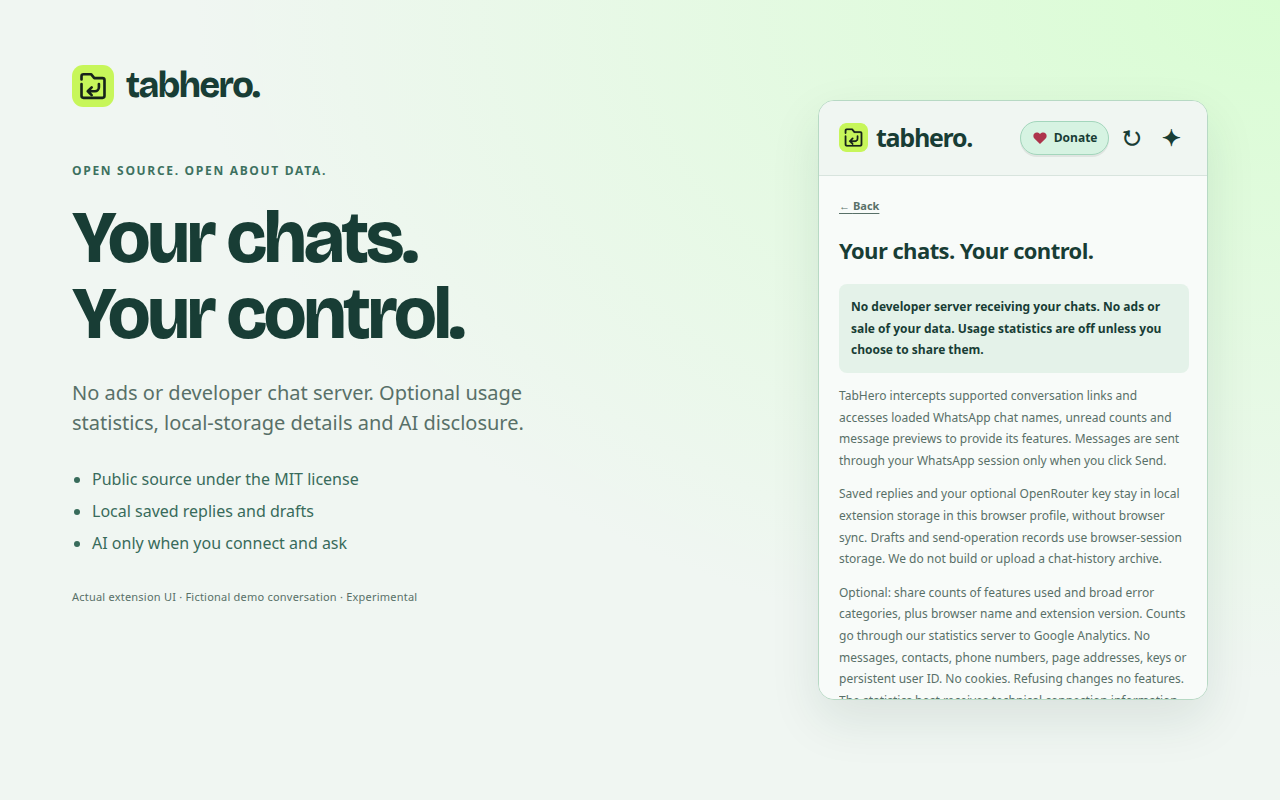
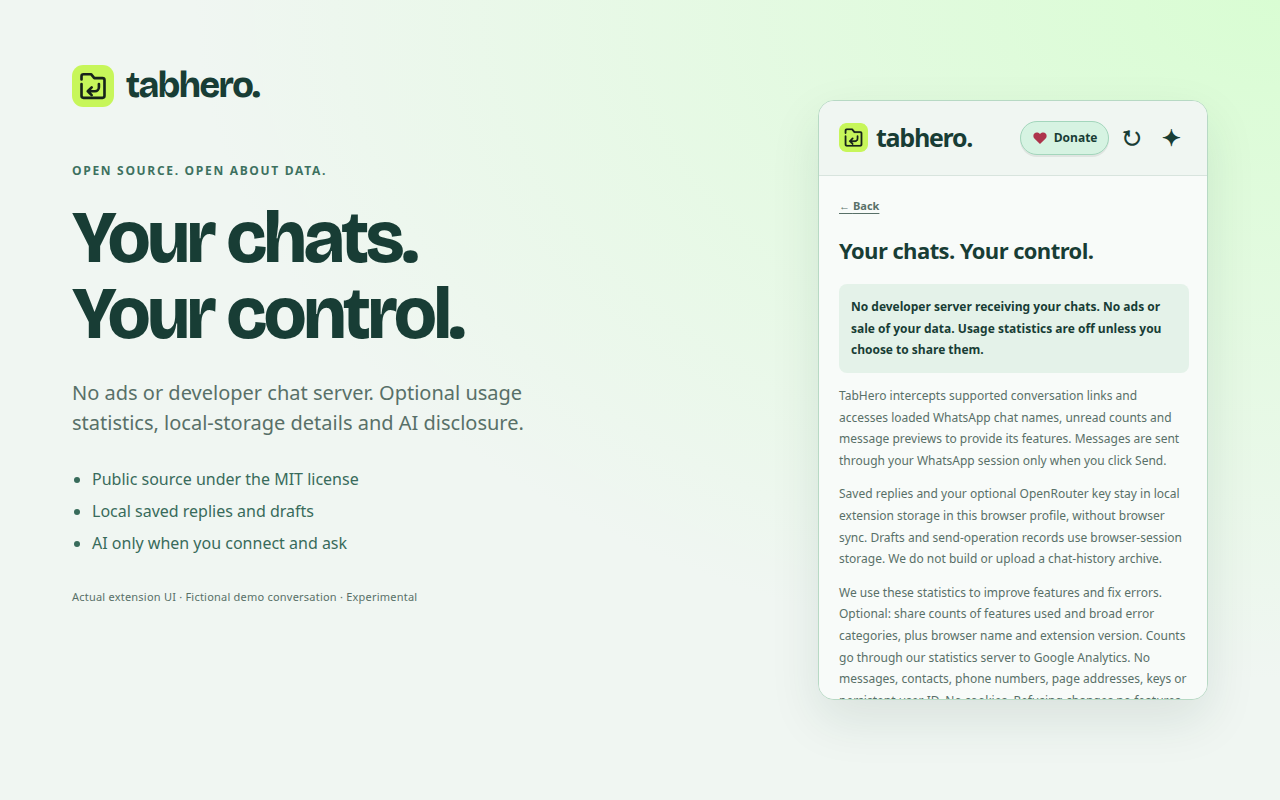
Explain optional improvement statistics without outdated no-analytics claims

Changed region(s): [[0.6562, 0.7188, 0.9375, 0.875]]

diff --git a/website/template.html b/website/template.html
@@ -60,7 +60,7 @@
       <div class="relief-grid">
         <article><span class="feature-number">↵ <small>01</small></span><h3 data-i18n="como_funciona_h3_041"><!--i18n:como_funciona_h3_041-->Já tem aba?<br>É nela mesmo.<!--/i18n:como_funciona_h3_041--></h3><p data-i18n="como_funciona_p_042"><!--i18n:como_funciona_p_042-->O TabHero encontra o WhatsApp Web aberto e troca de conversa dentro do aplicativo, preservando o documento carregado.<!--/i18n:como_funciona_p_042--></p></article>
         <article><span class="feature-number" data-i18n="como_funciona_span_043"><!--i18n:como_funciona_span_043-->Aa <small>02</small><!--/i18n:como_funciona_span_043--></span><h3 data-i18n="como_funciona_h3_044"><!--i18n:como_funciona_h3_044-->O texto vem.<br>O envio é seu.<!--/i18n:como_funciona_h3_044--></h3><p data-i18n="como_funciona_p_045"><!--i18n:como_funciona_p_045-->Número, acento, emoji e aquela mensagem do link: tudo segue para o rascunho. Nenhuma mensagem é enviada automaticamente.<!--/i18n:como_funciona_p_045--></p></article>
-        <article><span class="feature-number">&lt;/&gt; <small>03</small></span><h3 data-i18n="como_funciona_h3_046"><!--i18n:como_funciona_h3_046-->Sem caixa-preta.<br>Sem firula.<!--/i18n:como_funciona_h3_046--></h3><p data-i18n="como_funciona_p_047"><!--i18n:como_funciona_p_047-->Código aberto, licença MIT e execução local. Sem servidor para receber suas conversas e sem telemetria na extensão.<!--/i18n:como_funciona_p_047--></p></article>
+        <article><span class="feature-number">&lt;/&gt; <small>03</small></span><h3 data-i18n="como_funciona_h3_046"><!--i18n:como_funciona_h3_046-->Sem caixa-preta.<br>Sem firula.<!--/i18n:como_funciona_h3_046--></h3><p data-i18n="como_funciona_p_047"><!--i18n:como_funciona_p_047-->Código aberto, licença MIT. Nenhum servidor nosso recebe suas conversas. Contagens opcionais de uso ajudam a melhorar os recursos e corrigir erros, só se você escolher compartilhar.<!--/i18n:como_funciona_p_047--></p></article>
       </div>
     </section>
 
@@ -78,7 +78,7 @@
 
     <section class="support wrap section" id="apoie"><div class="support-art" aria-hidden="true"><div class="coffee-top"></div><div class="coffee-cup"><span>__WORDMARK__</span><i><span data-i18n="label_143"><!--i18n:label_143-->MAIS CONVERSA.<!--/i18n:label_143--></span><br><span data-i18n="label_144"><!--i18n:label_144-->MENOS ABA.<!--/i18n:label_144--></span></i></div><div class="coffee-handle"></div><span class="support-sticker" data-i18n="apoie_span_097"><!--i18n:apoie_span_097-->$1<small>já ajuda.</small><!--/i18n:apoie_span_097--></span><span class="coffee-caption" data-i18n="apoie_span_099"><!--i18n:apoie_span_099-->um dólar, um respiro.<br>compra um pouco de fôlego.<!--/i18n:apoie_span_099--></span></div><div class="support-copy"><p class="eyebrow" data-i18n="apoie_p_100"><!--i18n:apoie_p_100-->05 / O QUASE-CAFÉ<!--/i18n:apoie_p_100--></p><h2 data-i18n="apoie_h2_101"><!--i18n:apoie_h2_101-->Seu navegador<br>respira. O dev<br>também agradece.<!--/i18n:apoie_h2_101--></h2><p data-i18n="apoie_p_102"><!--i18n:apoie_p_102-->O TabHero é grátis e continua grátis. Se poupar um pouco do seu ranço, você pode apoiar o desenvolvimento a partir de <strong>US$ 1</strong>.<!--/i18n:apoie_p_102--></p><form id="support-form"><fieldset><legend class="sr-only" data-i18n="apoie_legend_104"><!--i18n:apoie_legend_104-->Escolha um valor de apoio em dólares americanos<!--/i18n:apoie_legend_104--></legend><div class="amounts"><button type="button" class="amount selected" data-amount="100" aria-pressed="true" data-i18n="apoie_button_105"><!--i18n:apoie_button_105-->US$ 1<!--/i18n:apoie_button_105--></button><button type="button" class="amount" data-amount="300" aria-pressed="false" data-i18n="apoie_button_106"><!--i18n:apoie_button_106-->US$ 3<!--/i18n:apoie_button_106--></button><button type="button" class="amount" data-amount="500" aria-pressed="false" data-i18n="apoie_button_107"><!--i18n:apoie_button_107-->US$ 5<!--/i18n:apoie_button_107--></button><button type="button" class="amount" data-amount="1000" aria-pressed="false" data-i18n="apoie_button_108"><!--i18n:apoie_button_108-->US$ 10<!--/i18n:apoie_button_108--></button><button type="button" class="amount" data-amount="custom" aria-pressed="false" data-i18n="apoie_button_109"><!--i18n:apoie_button_109-->Outro valor ↗<!--/i18n:apoie_button_109--></button></div></fieldset><p class="support-status" data-i18n="apoie_p_110"><!--i18n:apoie_p_110-->Sugestões de apoio. O valor final é escolhido e confirmado no GitHub.<!--/i18n:apoie_p_110--></p><div id="support-custom-field" hidden><label for="support-custom-amount">__SUPPORT_CUSTOM_LABEL__</label><input id="support-custom-amount" type="number" min="1" max="12000" step="1" inputmode="numeric" placeholder="US$" autocomplete="off"></div><p id="custom-note" hidden="" data-i18n="apoie_p_111"><!--i18n:apoie_p_111-->O campo de valor livre fica no GitHub Sponsors, a partir de US$ 1. Você confirma lá o valor e a modalidade do apoio.<!--/i18n:apoie_p_111--></p><button class="button primary full" id="support-submit" type="submit" disabled="" data-i18n="apoie_button_112"><!--i18n:apoie_button_112-->Apoio financeiro em preparação<!--/i18n:apoie_button_112--></button><p id="support-status" class="support-status" role="status" data-i18n="apoie_p_113"><!--i18n:apoie_p_113-->O recebimento ainda não foi ativado. Nenhuma cobrança será feita.<!--/i18n:apoie_p_113--></p></form><a class="text-link" href="https://github.com/klederson/tabhero" target="_blank" rel="noopener noreferrer" data-i18n="apoie_a_114"><!--i18n:apoie_a_114-->Uma estrela no GitHub também dá um gás <span aria-hidden="true">☆</span><!--/i18n:apoie_a_114--></a><p class="tiny" data-i18n="apoie_p_115"><!--i18n:apoie_p_115-->Quando ativado: valores e modalidade escolhidos no GitHub Sponsors. Apoios de contas pessoais não têm taxa do GitHub; de organizações podem ter até 6%. É necessária uma conta no GitHub.<!--/i18n:apoie_p_115--></p></div></section>
 
-    <section class="faq wrap section" id="perguntas"><div><p class="eyebrow" data-i18n="perguntas_p_116"><!--i18n:perguntas_p_116-->06 / ANTES QUE VOCÊ PERGUNTE<!--/i18n:perguntas_p_116--></p><h2 data-i18n="perguntas_h2_117"><!--i18n:perguntas_h2_117-->Sem letras<br>minúsculas.<span>*</span><!--/i18n:perguntas_h2_117--></h2><p data-i18n="perguntas_p_118"><!--i18n:perguntas_p_118-->* Tá, algumas. Mas dá para ler.<!--/i18n:perguntas_p_118--></p></div><div class="faq-items"><details><summary data-i18n="perguntas_summary_119"><!--i18n:perguntas_summary_119-->Isso é oficial do WhatsApp?<span>+</span><!--/i18n:perguntas_summary_119--></summary><p data-i18n="perguntas_p_120"><!--i18n:perguntas_p_120-->Não. TabHero é um projeto independente e não tem vínculo, patrocínio ou endosso do WhatsApp ou da Meta. WhatsApp é uma marca de seus respectivos titulares.<!--/i18n:perguntas_p_120--></p></details><details><summary data-i18n="perguntas_summary_121"><!--i18n:perguntas_summary_121-->Vai recarregar minha aba?<span>+</span><!--/i18n:perguntas_summary_121--></summary><p data-i18n="perguntas_p_122"><!--i18n:perguntas_p_122-->O objetivo central é abrir a conversa dentro do documento já carregado. O TabHero usa comandos internos do aplicativo. Se a integração falhar, mostra um erro; não recarrega a aba como alternativa.<!--/i18n:perguntas_p_122--></p></details><details><summary data-i18n="perguntas_summary_123"><!--i18n:perguntas_summary_123-->Você lê minhas conversas?<span>+</span><!--/i18n:perguntas_summary_123--></summary><p data-i18n="perguntas_p_124"><!--i18n:perguntas_p_124-->A extensão não consulta o histórico das mensagens. Ela usa o contato de destino e o texto do link para abrir a conversa e preencher o rascunho. Não tem telemetria nem servidor próprio para receber esse conteúdo. O código está aberto para inspeção.<!--/i18n:perguntas_p_124--></p></details><details><summary data-i18n="perguntas_summary_125"><!--i18n:perguntas_summary_125-->Está tudo pronto para produção?<span>+</span><!--/i18n:perguntas_summary_125--></summary><p data-i18n="perguntas_p_126"><!--i18n:perguntas_p_126-->Ainda é experimental. Há testes automatizados no Chromium e no Firefox com a interface do WhatsApp simulada. Eles verificam a preservação do documento, do estado e do rascunho, mas não comprovam a integração numa sessão autenticada real. Os módulos internos do WhatsApp podem mudar.<!--/i18n:perguntas_p_126--></p></details><details><summary data-i18n="perguntas_summary_127"><!--i18n:perguntas_summary_127-->Funciona de um navegador para outro?<span>+</span><!--/i18n:perguntas_summary_127--></summary><p data-i18n="perguntas_p_128"><!--i18n:perguntas_p_128-->A aba precisa estar no mesmo navegador e perfil da extensão. Links sem número, grupos e canais seguem seu fluxo normal. Se não houver WhatsApp aberto, a primeira aba é criada. A instalação temporária no Firefox precisa ser repetida ao reiniciar o navegador.<!--/i18n:perguntas_p_128--></p></details><details><summary data-i18n="perguntas_summary_129"><!--i18n:perguntas_summary_129-->E se isso virar uma função nativa?<span>+</span><!--/i18n:perguntas_summary_129--></summary><p data-i18n="perguntas_p_130"><!--i18n:perguntas_p_130-->A gente aposenta a extensão feliz. O importante é a conversa chegar no lugar certo. A ideia está aqui; o código também.<!--/i18n:perguntas_p_130--></p></details></div></section>
+    <section class="faq wrap section" id="perguntas"><div><p class="eyebrow" data-i18n="perguntas_p_116"><!--i18n:perguntas_p_116-->06 / ANTES QUE VOCÊ PERGUNTE<!--/i18n:perguntas_p_116--></p><h2 data-i18n="perguntas_h2_117"><!--i18n:perguntas_h2_117-->Sem letras<br>minúsculas.<span>*</span><!--/i18n:perguntas_h2_117--></h2><p data-i18n="perguntas_p_118"><!--i18n:perguntas_p_118-->* Tá, algumas. Mas dá para ler.<!--/i18n:perguntas_p_118--></p></div><div class="faq-items"><details><summary data-i18n="perguntas_summary_119"><!--i18n:perguntas_summary_119-->Isso é oficial do WhatsApp?<span>+</span><!--/i18n:perguntas_summary_119--></summary><p data-i18n="perguntas_p_120"><!--i18n:perguntas_p_120-->Não. TabHero é um projeto independente e não tem vínculo, patrocínio ou endosso do WhatsApp ou da Meta. WhatsApp é uma marca de seus respectivos titulares.<!--/i18n:perguntas_p_120--></p></details><details><summary data-i18n="perguntas_summary_121"><!--i18n:perguntas_summary_121-->Vai recarregar minha aba?<span>+</span><!--/i18n:perguntas_summary_121--></summary><p data-i18n="perguntas_p_122"><!--i18n:perguntas_p_122-->O objetivo central é abrir a conversa dentro do documento já carregado. O TabHero usa comandos internos do aplicativo. Se a integração falhar, mostra um erro; não recarrega a aba como alternativa.<!--/i18n:perguntas_p_122--></p></details><details><summary data-i18n="perguntas_summary_123"><!--i18n:perguntas_summary_123-->Você lê minhas conversas?<span>+</span><!--/i18n:perguntas_summary_123--></summary><p data-i18n="perguntas_p_124"><!--i18n:perguntas_p_124-->A resposta rápida lê nomes, contadores e o último texto recebido já carregado no WhatsApp. Só envia quando você clica em Enviar. Respostas salvas e sua chave do OpenRouter ficam neste perfil; rascunhos duram a sessão do navegador. Ao sugerir, o texto recebido exibido e seu rascunho vão ao OpenRouter e seu provedor de IA. Não criamos um arquivo do histórico das conversas. Contagens opcionais de uso ajudam a melhorar a extensão; o conteúdo das conversas nunca entra nessas estatísticas.<!--/i18n:perguntas_p_124--></p></details><details><summary data-i18n="perguntas_summary_125"><!--i18n:perguntas_summary_125-->Está tudo pronto para produção?<span>+</span><!--/i18n:perguntas_summary_125--></summary><p data-i18n="perguntas_p_126"><!--i18n:perguntas_p_126-->Ainda é experimental. Há testes automatizados no Chromium e no Firefox com a interface do WhatsApp simulada. Eles verificam a preservação do documento, do estado e do rascunho, mas não comprovam a integração numa sessão autenticada real. Os módulos internos do WhatsApp podem mudar.<!--/i18n:perguntas_p_126--></p></details><details><summary data-i18n="perguntas_summary_127"><!--i18n:perguntas_summary_127-->Funciona de um navegador para outro?<span>+</span><!--/i18n:perguntas_summary_127--></summary><p data-i18n="perguntas_p_128"><!--i18n:perguntas_p_128-->A aba precisa estar no mesmo navegador e perfil da extensão. Links sem número, grupos e canais seguem seu fluxo normal. Se não houver WhatsApp aberto, a primeira aba é criada. A instalação temporária no Firefox precisa ser repetida ao reiniciar o navegador.<!--/i18n:perguntas_p_128--></p></details><details><summary data-i18n="perguntas_summary_129"><!--i18n:perguntas_summary_129-->E se isso virar uma função nativa?<span>+</span><!--/i18n:perguntas_summary_129--></summary><p data-i18n="perguntas_p_130"><!--i18n:perguntas_p_130-->A gente aposenta a extensão feliz. O importante é a conversa chegar no lugar certo. A ideia está aqui; o código também.<!--/i18n:perguntas_p_130--></p></details></div></section>
 
     <section class="open-invitation"><div class="wrap"><p class="eyebrow" data-i18n="open_invitation_p_131"><!--i18n:open_invitation_p_131-->PEQUENAS IDEIAS MERECEM VIRAR PADRÃO.<!--/i18n:open_invitation_p_131--></p><h2 data-i18n="open_invitation_h2_132"><!--i18n:open_invitation_h2_132-->A melhor versão do TabHero?<br>A que ninguém precisa instalar.<!--/i18n:open_invitation_h2_132--></h2><p data-i18n="open_invitation_p_133"><!--i18n:open_invitation_p_133-->Até lá, o código está aberto. Para testar, melhorar e fazer a conversa andar.<!--/i18n:open_invitation_p_133--></p><a class="button light" href="https://github.com/klederson/tabhero" target="_blank" rel="noopener noreferrer" data-i18n="open_invitation_a_134"><!--i18n:open_invitation_a_134-->A ideia está aqui. O código também. <span aria-hidden="true">↗</span><!--/i18n:open_invitation_a_134--></a></div><span class="giant-arrow" aria-hidden="true">↵</span></section>
   </main>

diff --git a/extension/privacy-i18n.js b/extension/privacy-i18n.js
@@ -17,7 +17,7 @@ export const disclosureCatalogs = {
     "welcomeIntro": "New chat. Same tab. Here is what the extension accesses and what stays on your device.",
     "welcomeStart": "Got it — start using TabHero",
     "welcomeHow": "Pin TabHero in your browser toolbar, keep WhatsApp Web open in this browser, then open a conversation link or use Quick reply.",
-    "privacyAnalytics": "Optional: share counts of features used and broad error categories, plus browser name and extension version. Counts go through our statistics server to Google Analytics. No messages, contacts, phone numbers, page addresses, keys or persistent user ID. No cookies. Refusing changes no features. The statistics host receives technical connection information such as IP addresses; its hosting and logging policies apply. Google stores the statistics under its policies. No past events are uploaded later. Turn sharing off in Privacy & source; this stops new requests and does not delete previously received statistics. The local choice expires after 180 days. Website consent is separate."
+    "privacyAnalytics": "We use these statistics to improve features and fix errors. Optional: share counts of features used and broad error categories, plus browser name and extension version. Counts go through our statistics server to Google Analytics. No messages, contacts, phone numbers, page addresses, keys or persistent user ID. No cookies. Refusing changes no features. The statistics host receives technical connection information such as IP addresses; its hosting and logging policies apply. Google stores the statistics under its policies. No past events are uploaded later. Turn sharing off in Privacy & source; this stops new requests and does not delete previously received statistics. The local choice expires after 180 days. Website consent is separate."
   },
   "pt": {
     "privacyLink": "Privacidade e código",
@@ -36,7 +36,7 @@ export const disclosureCatalogs = {
     "welcomeIntro": "Nova conversa. Mesma aba. Veja o que a extensão acessa e o que fica no seu dispositivo.",
     "welcomeStart": "Entendi — começar a usar",
     "welcomeHow": "Fixe o TabHero na barra do navegador, mantenha o WhatsApp Web aberto neste navegador e abra um link de conversa ou use a resposta rápida.",
-    "privacyAnalytics": "Opcional: compartilhe contagens dos recursos usados e categorias gerais de erro, além do nome do navegador e da versão da extensão. Elas passam pelo nosso servidor de estatísticas e vão ao Google Analytics. Sem mensagens, contatos, números, endereços de páginas, chaves ou identificação permanente do usuário. Sem cookies. Recusar não muda os recursos. O servidor de estatísticas recebe informações técnicas da conexão, como o endereço IP; valem as políticas de hospedagem e registros dele. O Google armazena as estatísticas conforme suas políticas. Eventos anteriores não são enviados depois. Desligue em Privacidade e código para parar novos envios; isso não apaga estatísticas já recebidas. A escolha local expira em 180 dias. A permissão do site é separada."
+    "privacyAnalytics": "Usamos essas estatísticas para melhorar os recursos e corrigir erros. Opcional: compartilhe contagens dos recursos usados e categorias gerais de erro, além do nome do navegador e da versão da extensão. Elas passam pelo nosso servidor de estatísticas e vão ao Google Analytics. Sem mensagens, contatos, números, endereços de páginas, chaves ou identificação permanente do usuário. Sem cookies. Recusar não muda os recursos. O servidor de estatísticas recebe informações técnicas da conexão, como o endereço IP; valem as políticas de hospedagem e registros dele. O Google armazena as estatísticas conforme suas políticas. Eventos anteriores não são enviados depois. Desligue em Privacidade e código para parar novos envios; isso não apaga estatísticas já recebidas. A escolha local expira em 180 dias. A permissão do site é separada."
   },
   "es": {
     "privacyLink": "Privacidad y código",
@@ -55,7 +55,7 @@ export const disclosureCatalogs = {
     "welcomeIntro": "Nueva conversación. Misma pestaña. Esto es lo que accede la extensión y lo que queda en tu dispositivo.",
     "welcomeStart": "Entendido — empezar",
     "welcomeHow": "Fija TabHero en la barra del navegador, mantén WhatsApp Web abierto en este navegador y abre un enlace de conversación o usa la respuesta rápida.",
-    "privacyAnalytics": "Opcional: comparte conteos de funciones usadas y categorías generales de errores, además del navegador y la versión de la extensión. Pasan por nuestro servidor de estadísticas hacia Google Analytics. Sin mensajes, contactos, números, direcciones de páginas, claves ni identificación permanente. Sin cookies. Rechazar no cambia las funciones. El servidor de estadísticas recibe información técnica de conexión, como la dirección IP; se aplican sus políticas de alojamiento y registros. Google guarda las estadísticas según sus políticas. No se envían eventos pasados después. Desactiva en Privacidad y código para detener nuevos envíos; esto no borra estadísticas ya recibidas. La elección local caduca en 180 días. El permiso del sitio es independiente."
+    "privacyAnalytics": "Usamos estas estadísticas para mejorar las funciones y corregir errores. Opcional: comparte conteos de funciones usadas y categorías generales de errores, además del navegador y la versión de la extensión. Pasan por nuestro servidor de estadísticas hacia Google Analytics. Sin mensajes, contactos, números, direcciones de páginas, claves ni identificación permanente. Sin cookies. Rechazar no cambia las funciones. El servidor de estadísticas recibe información técnica de conexión, como la dirección IP; se aplican sus políticas de alojamiento y registros. Google guarda las estadísticas según sus políticas. No se envían eventos pasados después. Desactiva en Privacidad y código para detener nuevos envíos; esto no borra estadísticas ya recibidas. La elección local caduca en 180 días. El permiso del sitio es independiente."
   },
   "id": {
     "privacyLink": "Privasi & kode sumber",
@@ -74,7 +74,7 @@ export const disclosureCatalogs = {
     "welcomeIntro": "Percakapan baru. Tab yang sama. Ketahui akses ekstensi dan data yang tetap di perangkat Anda.",
     "welcomeStart": "Mengerti — mulai gunakan TabHero",
     "welcomeHow": "Sematkan TabHero di toolbar browser, biarkan WhatsApp Web terbuka di browser ini, lalu buka tautan percakapan atau gunakan Balasan cepat.",
-    "privacyAnalytics": "Opsional: bagikan hitungan fitur yang dipakai dan kategori kesalahan umum, serta nama browser dan versi ekstensi. Data melewati server statistik kami ke Google Analytics. Tanpa pesan, kontak, nomor telepon, alamat halaman, kunci, atau ID pengguna tetap. Tanpa cookie. Menolak tidak mengubah fitur. Server statistik menerima informasi teknis koneksi seperti alamat IP; kebijakan hosting dan pencatatannya berlaku. Google menyimpan statistik sesuai kebijakannya. Kejadian sebelumnya tidak diunggah belakangan. Matikan di Privasi & kode sumber untuk menghentikan pengiriman baru; statistik yang telah diterima tidak dihapus. Pilihan lokal berakhir setelah 180 hari. Izin situs terpisah."
+    "privacyAnalytics": "Kami memakai statistik ini untuk memperbaiki fitur dan mengatasi kesalahan. Opsional: bagikan hitungan fitur yang dipakai dan kategori kesalahan umum, serta nama browser dan versi ekstensi. Data melewati server statistik kami ke Google Analytics. Tanpa pesan, kontak, nomor telepon, alamat halaman, kunci, atau ID pengguna tetap. Tanpa cookie. Menolak tidak mengubah fitur. Server statistik menerima informasi teknis koneksi seperti alamat IP; kebijakan hosting dan pencatatannya berlaku. Google menyimpan statistik sesuai kebijakannya. Kejadian sebelumnya tidak diunggah belakangan. Matikan di Privasi & kode sumber untuk menghentikan pengiriman baru; statistik yang telah diterima tidak dihapus. Pilihan lokal berakhir setelah 180 hari. Izin situs terpisah."
   },
   "hi": {
     "privacyLink": "गोपनीयता और स्रोत",
@@ -93,7 +93,7 @@ export const disclosureCatalogs = {
     "welcomeIntro": "नई बातचीत। वही टैब। जानें कि एक्सटेंशन क्या पढ़ता है और आपके डिवाइस पर क्या रहता है।",
     "welcomeStart": "समझ गया — शुरू करें",
     "welcomeHow": "ब्राउज़र टूलबार में TabHero पिन करें, इसी ब्राउज़र में WhatsApp Web खुला रखें, फिर बातचीत लिंक खोलें या तुरंत जवाब का इस्तेमाल करें।",
-    "privacyAnalytics": "वैकल्पिक: इस्तेमाल की गई सुविधाओं की गिनती और सामान्य त्रुटि श्रेणियाँ, ब्राउज़र का नाम और एक्सटेंशन का संस्करण साझा करें। ये हमारे आँकड़ों के सर्वर से Google Analytics तक जाते हैं। संदेश, संपर्क, फ़ोन नंबर, पेज के पते, कुंजियाँ या स्थायी उपयोगकर्ता पहचान शामिल नहीं हैं। कोई कुकी नहीं। मना करने से कोई सुविधा नहीं बदलती। आँकड़ों के सर्वर को IP पते जैसी तकनीकी कनेक्शन जानकारी मिलती है; उसकी होस्टिंग और लॉग की नीतियाँ लागू होती हैं। Google अपनी नीतियों के अनुसार आँकड़े रखता है। पुराने इवेंट बाद में नहीं भेजे जाते। गोपनीयता और स्रोत में बंद करने से नए अनुरोध रुकते हैं; पहले मिले आँकड़े नहीं मिटते। स्थानीय पसंद 180 दिनों में समाप्त होती है। साइट की अनुमति अलग है।"
+    "privacyAnalytics": "हम इन आँकड़ों से सुविधाएँ बेहतर बनाते हैं और त्रुटियाँ सुधारते हैं। वैकल्पिक: इस्तेमाल की गई सुविधाओं की गिनती और सामान्य त्रुटि श्रेणियाँ, ब्राउज़र का नाम और एक्सटेंशन का संस्करण साझा करें। ये हमारे आँकड़ों के सर्वर से Google Analytics तक जाते हैं। संदेश, संपर्क, फ़ोन नंबर, पेज के पते, कुंजियाँ या स्थायी उपयोगकर्ता पहचान शामिल नहीं हैं। कोई कुकी नहीं। मना करने से कोई सुविधा नहीं बदलती। आँकड़ों के सर्वर को IP पते जैसी तकनीकी कनेक्शन जानकारी मिलती है; उसकी होस्टिंग और लॉग की नीतियाँ लागू होती हैं। Google अपनी नीतियों के अनुसार आँकड़े रखता है। पुराने इवेंट बाद में नहीं भेजे जाते। गोपनीयता और स्रोत में बंद करने से नए अनुरोध रुकते हैं; पहले मिले आँकड़े नहीं मिटते। स्थानीय पसंद 180 दिनों में समाप्त होती है। साइट की अनुमति अलग है।"
   }
 };
 export function disclosureMessages(language) { return disclosureCatalogs[language?.split(/[-_]/)[0]] ?? disclosureCatalogs.en; }

diff --git a/extension/analytics-ui.js b/extension/analytics-ui.js
@@ -1,10 +1,10 @@
 import { collectorOrigin } from './analytics.js';
 export const usageCopy = {
- en:{title:'Help improve the extension',body:'Optional: share counts of features used and broad error categories, plus browser name and extension version. Counts go through our statistics server to Google Analytics. No messages, contacts, phone numbers, page addresses, keys or persistent user ID. No cookies. Refusing changes no features.',enable:'Share usage counts',disable:'Keep statistics off',on:'On. You can turn this off here at any time.',off:'Off. No usage statistics are sent.',unavailable:'Statistics are not available yet. All features work.',error:'Permission was not granted. Statistics stay off.'},
- pt:{title:'Ajude a melhorar a extensão',body:'Opcional: compartilhe contagens dos recursos usados e categorias gerais de erro, além do nome do navegador e da versão da extensão. Elas passam pelo nosso servidor de estatísticas e vão ao Google Analytics. Sem mensagens, contatos, números, endereços de páginas, chaves ou identificação permanente do usuário. Sem cookies. Recusar não muda os recursos.',enable:'Compartilhar contagens de uso',disable:'Manter estatísticas desligadas',on:'Ligado. Você pode desligar aqui quando quiser.',off:'Desligado. Nenhuma estatística de uso é enviada.',unavailable:'As estatísticas ainda não estão disponíveis. Todos os recursos funcionam.',error:'A permissão não foi concedida. As estatísticas continuam desligadas.'},
- es:{title:'Ayuda a mejorar la extensión',body:'Opcional: comparte conteos de funciones usadas y categorías generales de errores, además del navegador y la versión de la extensión. Pasan por nuestro servidor de estadísticas hacia Google Analytics. Sin mensajes, contactos, números, direcciones de páginas, claves ni identificación permanente. Sin cookies. Rechazar no cambia las funciones.',enable:'Compartir conteos de uso',disable:'Mantener estadísticas apagadas',on:'Activado. Puedes apagarlo aquí cuando quieras.',off:'Apagado. No se envían estadísticas de uso.',unavailable:'Las estadísticas aún no están disponibles. Todas las funciones siguen disponibles.',error:'No se concedió el permiso. Las estadísticas siguen apagadas.'},
- id:{title:'Bantu perbaiki ekstensi',body:'Opsional: bagikan hitungan fitur yang dipakai dan kategori kesalahan umum, serta nama browser dan versi ekstensi. Data melewati server statistik kami ke Google Analytics. Tanpa pesan, kontak, nomor telepon, alamat halaman, kunci, atau ID pengguna tetap. Tanpa cookie. Menolak tidak mengubah fitur.',enable:'Bagikan hitungan penggunaan',disable:'Biarkan statistik mati',on:'Aktif. Anda dapat mematikannya di sini kapan saja.',off:'Mati. Statistik penggunaan tidak dikirim.',unavailable:'Statistik belum tersedia. Semua fitur tetap berfungsi.',error:'Izin tidak diberikan. Statistik tetap mati.'},
- hi:{title:'एक्सटेंशन को बेहतर बनाने में मदद करें',body:'वैकल्पिक: इस्तेमाल की गई सुविधाओं की गिनती और सामान्य त्रुटि श्रेणियाँ, ब्राउज़र का नाम और एक्सटेंशन का संस्करण साझा करें। ये हमारे आँकड़ों के सर्वर से Google Analytics तक जाते हैं। संदेश, संपर्क, फ़ोन नंबर, पेज के पते, कुंजियाँ या स्थायी उपयोगकर्ता पहचान शामिल नहीं हैं। कोई कुकी नहीं। मना करने से कोई सुविधा नहीं बदलती।',enable:'इस्तेमाल की गिनती साझा करें',disable:'आँकड़े बंद रखें',on:'चालू है। आप यहाँ कभी भी बंद कर सकते हैं।',off:'बंद है। इस्तेमाल के आँकड़े नहीं भेजे जाते।',unavailable:'आँकड़े अभी उपलब्ध नहीं हैं। सभी सुविधाएँ काम करती हैं।',error:'अनुमति नहीं मिली। आँकड़े बंद हैं।'}
+ en:{title:'Help improve the extension',body:'We use these statistics to improve features and fix errors. Optional: share counts of features used and broad error categories, plus browser name and extension version. Counts go through our statistics server to Google Analytics. No messages, contacts, phone numbers, page addresses, keys or persistent user ID. No cookies. Refusing changes no features.',enable:'Share usage counts',disable:'Keep statistics off',on:'On. You can turn this off here at any time.',off:'Off. No usage statistics are sent.',unavailable:'Statistics are not available yet. All features work.',error:'Permission was not granted. Statistics stay off.'},
+ pt:{title:'Ajude a melhorar a extensão',body:'Usamos essas estatísticas para melhorar os recursos e corrigir erros. Opcional: compartilhe contagens dos recursos usados e categorias gerais de erro, além do nome do navegador e da versão da extensão. Elas passam pelo nosso servidor de estatísticas e vão ao Google Analytics. Sem mensagens, contatos, números, endereços de páginas, chaves ou identificação permanente do usuário. Sem cookies. Recusar não muda os recursos.',enable:'Compartilhar contagens de uso',disable:'Manter estatísticas desligadas',on:'Ligado. Você pode desligar aqui quando quiser.',off:'Desligado. Nenhuma estatística de uso é enviada.',unavailable:'As estatísticas ainda não estão disponíveis. Todos os recursos funcionam.',error:'A permissão não foi concedida. As estatísticas continuam desligadas.'},
+ es:{title:'Ayuda a mejorar la extensión',body:'Usamos estas estadísticas para mejorar las funciones y corregir errores. Opcional: comparte conteos de funciones usadas y categorías generales de errores, además del navegador y la versión de la extensión. Pasan por nuestro servidor de estadísticas hacia Google Analytics. Sin mensajes, contactos, números, direcciones de páginas, claves ni identificación permanente. Sin cookies. Rechazar no cambia las funciones.',enable:'Compartir conteos de uso',disable:'Mantener estadísticas apagadas',on:'Activado. Puedes apagarlo aquí cuando quieras.',off:'Apagado. No se envían estadísticas de uso.',unavailable:'Las estadísticas aún no están disponibles. Todas las funciones siguen disponibles.',error:'No se concedió el permiso. Las estadísticas siguen apagadas.'},
+ id:{title:'Bantu perbaiki ekstensi',body:'Kami memakai statistik ini untuk memperbaiki fitur dan mengatasi kesalahan. Opsional: bagikan hitungan fitur yang dipakai dan kategori kesalahan umum, serta nama browser dan versi ekstensi. Data melewati server statistik kami ke Google Analytics. Tanpa pesan, kontak, nomor telepon, alamat halaman, kunci, atau ID pengguna tetap. Tanpa cookie. Menolak tidak mengubah fitur.',enable:'Bagikan hitungan penggunaan',disable:'Biarkan statistik mati',on:'Aktif. Anda dapat mematikannya di sini kapan saja.',off:'Mati. Statistik penggunaan tidak dikirim.',unavailable:'Statistik belum tersedia. Semua fitur tetap berfungsi.',error:'Izin tidak diberikan. Statistik tetap mati.'},
+ hi:{title:'एक्सटेंशन को बेहतर बनाने में मदद करें',body:'हम इन आँकड़ों से सुविधाएँ बेहतर बनाते हैं और त्रुटियाँ सुधारते हैं। वैकल्पिक: इस्तेमाल की गई सुविधाओं की गिनती और सामान्य त्रुटि श्रेणियाँ, ब्राउज़र का नाम और एक्सटेंशन का संस्करण साझा करें। ये हमारे आँकड़ों के सर्वर से Google Analytics तक जाते हैं। संदेश, संपर्क, फ़ोन नंबर, पेज के पते, कुंजियाँ या स्थायी उपयोगकर्ता पहचान शामिल नहीं हैं। कोई कुकी नहीं। मना करने से कोई सुविधा नहीं बदलती।',enable:'इस्तेमाल की गिनती साझा करें',disable:'आँकड़े बंद रखें',on:'चालू है। आप यहाँ कभी भी बंद कर सकते हैं।',off:'बंद है। इस्तेमाल के आँकड़े नहीं भेजे जाते।',unavailable:'आँकड़े अभी उपलब्ध नहीं हैं। सभी सुविधाएँ काम करती हैं।',error:'अनुमति नहीं मिली। आँकड़े बंद हैं।'}
 };
 export function mountUsageStatistics(root,api=globalThis.browser??globalThis.chrome) {
  const language=(api.i18n.getMessage('language')||api.i18n.getUILanguage()).split(/[-_]/)[0];

diff --git a/README.md b/README.md
@@ -84,9 +84,9 @@ Group invitations, channels, numberless sharing links, and business codes such a
 
 ## Permissions and privacy
 
-Host access is limited to `wa.me`, `api.whatsapp.com`, `www.whatsapp.com`, and `web.whatsapp.com`. `declarativeNetRequestWithHostAccess` redirects navigations before the intermediary page; `scripting` opens the chat within the loaded document. The browser may ask for site access. Keep access to the declared sites enabled in Chrome for automatic interception.
+Required host access is limited to `wa.me`, `api.whatsapp.com`, `www.whatsapp.com`, and `web.whatsapp.com`. `declarativeNetRequestWithHostAccess` redirects navigations before the intermediary page; `scripting` opens the chat within the loaded document. The browser may ask for site access. Keep access to the declared sites enabled in Chrome for automatic interception.
 
-Only the local intermediary page is web-accessible, allowing links from any site to reach it. The quick-reply popup is private to the extension. The extension has no telemetry or developer-operated server. It uses WhatsApp's loaded chat models for names, unread counts, latest incoming text and deliberate quick replies; it does not fetch a history archive. A content script requests the silent count but cannot ask to send messages. Only the extension popup can request a quick-reply send.
+Only the local intermediary page is web-accessible, allowing links from any site to reach it. The quick-reply popup is private to the extension. Optional usage statistics go through a separate statistics server only after opt-in, to help improve features and fix errors. Chat content never enters those statistics. It uses WhatsApp's loaded chat models for names, unread counts, latest incoming text and deliberate quick replies; it does not fetch a history archive. A content script requests the silent count but cannot ask to send messages. Only the extension popup can request a quick-reply send.
 
 The `storage` permission keeps saved replies and the optional OpenRouter key locally, without browser sync. Drafts and operation receipts use browser-session storage; closing the browser clears them. The key is never injected into WhatsApp. Optional access to `https://openrouter.ai/*` is requested only when connecting AI and can be removed with **Disconnect AI**. Firefox also requests its optional authentication-information and personal-communications consent at that point; revoking it prevents AI requests. No chat content goes to AI in the background. Local storage is not an encrypted password vault; use a dedicated, limited OpenRouter key. No real key is included in this repository or its tests.
 

diff --git a/docs/extension-analytics.md b/docs/extension-analytics.md
@@ -1,8 +1,8 @@
 # Optional extension usage statistics
 
-Separate from website analytics. Off by default, including existing installations. The extension works fully when refused. The first-install page and **Privacy & source** panel contain the choice in English, Portuguese, Spanish, Indonesian and Hindi.
+These statistics help improve features and fix errors. They are separate from website analytics and off by default, including existing installations. The extension works fully when refused. The first-install page and **Privacy & source** panel contain the choice in English, Portuguese, Spanish, Indonesian and Hindi.
 
-Only fixed event names, browser family (Chrome or Firefox) and extension version leave the extension. No message text/caption/media, saved reply content/title, chat/account ID, phone, search text, page URL, draft, credential, exception/stack, unread count, relay payload or machine/user identifier is accepted. No cookies or persistent visitor ID. Private contexts are excluded. No telemetry is injected into the WhatsApp document.
+In this optional statistics path, only fixed event names, browser family (Chrome or Firefox) and extension version leave the extension. No message text/caption/media, saved reply content/title, chat/account ID, phone, search text, page URL, draft, credential, exception/stack, unread count, relay payload or machine/user identifier is accepted. No cookies or persistent visitor ID. Private contexts are excluded. No telemetry is injected into the WhatsApp document.
 
 Events count panel openings, saved-reply selection, manual-send acceptance/errors, AI suggestion success/errors, conversation-opening success/errors, and (Bridge only) bridge settings actions. These are sampled best-effort counts (at most once per event per minute per running background context), not message-delivery, unique-user, retention, installation or complete usage statistics. Automatic relay message content and traffic are never instrumented. There is no queue, backfill or retry. Failure never blocks routing, manual sends, AI or relay.
 
